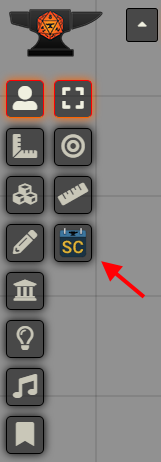
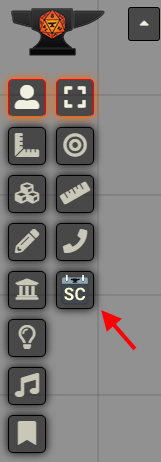
Toned down the coloring of the Token Control button. Fixed a bug where the display options time format previews were no longer updating to reflect changes. Fixed a bug where doing a quick setup with notes would result in duplicate notes being shown. Removed the setting of the version in the manifest

diff --git a/src/classes/configuration/predefined-calendar.test.ts b/src/classes/configuration/predefined-calendar.test.ts
@@ -36,13 +36,11 @@ describe('Predefined Calendar Tests', () => {
         jest.spyOn(NManager, 'addNoteStub').mockImplementation(() => {});
         fetchMock.mockOnce(`{"calendar":{"currentDate":{"year":2022,"month":2,"day":28,"seconds":0},"general":{"gameWorldTimeIntegration":"mixed","showClock":true,"noteDefaultVisibility":false,"postNoteRemindersOnFoundryLoad":true,"pf2eSync":true,"dateFormat":{"date":"MMMM DD, YYYY","time":"HH:mm:ss","monthYear":"MMMM YAYYYYYZ"}},"leapYear":{"rule":"gregorian","customMod":0},"months":[{"name":"January","abbreviation":"Jan","numericRepresentation":1,"numericRepresentationOffset":0,"numberOfDays":31,"numberOfLeapYearDays":31,"intercalary":false,"intercalaryInclude":false,"startingWeekday":null},{"name":"February","abbreviation":"Feb","numericRepresentation":2,"numericRepresentationOffset":0,"numberOfDays":28,"numberOfLeapYearDays":29,"intercalary":false,"intercalaryInclude":false,"startingWeekday":null},{"name":"March","abbreviation":"Mar","numericRepresentation":3,"numericRepresentationOffset":0,"numberOfDays":31,"numberOfLeapYearDays":31,"intercalary":false,"intercalaryInclude":false,"startingWeekday":null},{"name":"April","abbreviation":"Apr","numericRepresentation":4,"numericRepresentationOffset":0,"numberOfDays":30,"numberOfLeapYearDays":30,"intercalary":false,"intercalaryInclude":false,"startingWeekday":null},{"name":"May","abbreviation":"May","numericRepresentation":5,"numericRepresentationOffset":0,"numberOfDays":31,"numberOfLeapYearDays":31,"intercalary":false,"intercalaryInclude":false,"startingWeekday":null},{"name":"June","abbreviation":"Jun","numericRepresentation":6,"numericRepresentationOffset":0,"numberOfDays":30,"numberOfLeapYearDays":30,"intercalary":false,"intercalaryInclude":false,"startingWeekday":null},{"name":"July","abbreviation":"Jul","numericRepresentation":7,"numericRepresentationOffset":0,"numberOfDays":31,"numberOfLeapYearDays":31,"intercalary":false,"intercalaryInclude":false,"startingWeekday":null},{"name":"August","abbreviation":"Aug","numericRepresentation":8,"numericRepresentationOffset":0,"numberOfDays":31,"numberOfLeapYearDays":31,"intercalary":false,"intercalaryInclude":false,"startingWeekday":null},{"name":"September","abbreviation":"Sep","numericRepresentation":9,"numericRepresentationOffset":0,"numberOfDays":30,"numberOfLeapYearDays":30,"intercalary":false,"intercalaryInclude":false,"startingWeekday":null},{"name":"October","abbreviation":"Oct","numericRepresentation":10,"numericRepresentationOffset":0,"numberOfDays":31,"numberOfLeapYearDays":31,"intercalary":false,"intercalaryInclude":false,"startingWeekday":null},{"name":"November","abbreviation":"Nov","numericRepresentation":11,"numericRepresentationOffset":0,"numberOfDays":30,"numberOfLeapYearDays":30,"intercalary":false,"intercalaryInclude":false,"startingWeekday":null},{"name":"December","abbreviation":"Dec","numericRepresentation":12,"numericRepresentationOffset":0,"numberOfDays":31,"numberOfLeapYearDays":31,"intercalary":false,"intercalaryInclude":false,"startingWeekday":null}],"moons":[{"name":"Moon","cycleLength":29.53059,"firstNewMoon":{"yearReset":"none","yearX":0,"year":2000,"month":1,"day":5},"phases":[{"name":"New Moon","length":1,"icon":"new","singleDay":true},{"name":"Waxing Crescent","length":6.38265,"icon":"waxing-crescent","singleDay":false},{"name":"First Quarter","length":1,"icon":"first-quarter","singleDay":true},{"name":"Waxing Gibbous","length":6.38265,"icon":"waxing-gibbous","singleDay":false},{"name":"Full Moon","length":1,"icon":"full","singleDay":true},{"name":"Waning Gibbous","length":6.38265,"icon":"waning-gibbous","singleDay":false},{"name":"Last Quarter","length":1,"icon":"last-quarter","singleDay":true},{"name":"Waning Crescent","length":6.38265,"icon":"waning-crescent","singleDay":false}],"color":"#ffffff","cycleDayAdjust":0.5}],"noteCategories":[{"name":"Holiday","textColor":"#FFFFFF","color":"#148e94"}],"seasons":[{"name":"Spring","startingMonth":2,"startingDay":19,"color":"#46b946","icon":"spring","sunriseTime":21600,"sunsetTime":64800},{"name":"Summer","startingMonth":5,"startingDay":19,"color":"#e0c40b","icon":"summer","sunriseTime":21600,"sunsetTime":64800},{"name":"Fall","startingMonth":8,"startingDay":21,"color":"#ff8e47","icon":"fall","sunriseTime":21600,"sunsetTime":64800},{"name":"Winter","startingMonth":11,"startingDay":20,"color":"#479dff","icon":"winter","sunriseTime":21600,"sunsetTime":64800}],"time":{"hoursInDay":24,"minutesInHour":60,"secondsInMinute":60,"gameTimeRatio":1,"unifyGameAndClockPause":false,"updateFrequency":1},"weekdays":[{"abbreviation":"Su","name":"Sunday","numericRepresentation":1},{"abbreviation":"Mo","name":"Monday","numericRepresentation":2},{"abbreviation":"Tu","name":"Tuesday","numericRepresentation":3},{"abbreviation":"We","name":"Wednesday","numericRepresentation":4},{"abbreviation":"Th","name":"Thursday","numericRepresentation":5},{"abbreviation":"Fr","name":"Friday","numericRepresentation":6},{"abbreviation":"Sa","name":"Saturday","numericRepresentation":7}],"year":{"numericRepresentation":2022,"prefix":"","postfix":"","showWeekdayHeadings":true,"firstWeekday":4,"yearZero":1970,"yearNames":[],"yearNamingRule":"default","yearNamesStart":0}}, "notes":[{"flags":{"foundryvtt-simple-calendar":{"noteData":{}}}}]}`);
         expect(await PredefinedCalendar.setToPredefined(tCal, PredefinedCalendars.Gregorian)).toBe(true);
-        expect(NManager.addNoteStub).toHaveBeenCalledTimes(1);
 
         //@ts-ignore
         game.user.id = 'kqerkweklsfd';
         fetchMock.mockOnce(`{"calendar":{"currentDate":{"year":2022,"month":2,"day":28,"seconds":0},"general":{"gameWorldTimeIntegration":"mixed","showClock":true,"noteDefaultVisibility":false,"postNoteRemindersOnFoundryLoad":true,"pf2eSync":true,"dateFormat":{"date":"MMMM DD, YYYY","time":"HH:mm:ss","monthYear":"MMMM YAYYYYYZ"}},"leapYear":{"rule":"gregorian","customMod":0},"months":[{"name":"January","abbreviation":"Jan","numericRepresentation":1,"numericRepresentationOffset":0,"numberOfDays":31,"numberOfLeapYearDays":31,"intercalary":false,"intercalaryInclude":false,"startingWeekday":null},{"name":"February","abbreviation":"Feb","numericRepresentation":2,"numericRepresentationOffset":0,"numberOfDays":28,"numberOfLeapYearDays":29,"intercalary":false,"intercalaryInclude":false,"startingWeekday":null},{"name":"March","abbreviation":"Mar","numericRepresentation":3,"numericRepresentationOffset":0,"numberOfDays":31,"numberOfLeapYearDays":31,"intercalary":false,"intercalaryInclude":false,"startingWeekday":null},{"name":"April","abbreviation":"Apr","numericRepresentation":4,"numericRepresentationOffset":0,"numberOfDays":30,"numberOfLeapYearDays":30,"intercalary":false,"intercalaryInclude":false,"startingWeekday":null},{"name":"May","abbreviation":"May","numericRepresentation":5,"numericRepresentationOffset":0,"numberOfDays":31,"numberOfLeapYearDays":31,"intercalary":false,"intercalaryInclude":false,"startingWeekday":null},{"name":"June","abbreviation":"Jun","numericRepresentation":6,"numericRepresentationOffset":0,"numberOfDays":30,"numberOfLeapYearDays":30,"intercalary":false,"intercalaryInclude":false,"startingWeekday":null},{"name":"July","abbreviation":"Jul","numericRepresentation":7,"numericRepresentationOffset":0,"numberOfDays":31,"numberOfLeapYearDays":31,"intercalary":false,"intercalaryInclude":false,"startingWeekday":null},{"name":"August","abbreviation":"Aug","numericRepresentation":8,"numericRepresentationOffset":0,"numberOfDays":31,"numberOfLeapYearDays":31,"intercalary":false,"intercalaryInclude":false,"startingWeekday":null},{"name":"September","abbreviation":"Sep","numericRepresentation":9,"numericRepresentationOffset":0,"numberOfDays":30,"numberOfLeapYearDays":30,"intercalary":false,"intercalaryInclude":false,"startingWeekday":null},{"name":"October","abbreviation":"Oct","numericRepresentation":10,"numericRepresentationOffset":0,"numberOfDays":31,"numberOfLeapYearDays":31,"intercalary":false,"intercalaryInclude":false,"startingWeekday":null},{"name":"November","abbreviation":"Nov","numericRepresentation":11,"numericRepresentationOffset":0,"numberOfDays":30,"numberOfLeapYearDays":30,"intercalary":false,"intercalaryInclude":false,"startingWeekday":null},{"name":"December","abbreviation":"Dec","numericRepresentation":12,"numericRepresentationOffset":0,"numberOfDays":31,"numberOfLeapYearDays":31,"intercalary":false,"intercalaryInclude":false,"startingWeekday":null}],"moons":[{"name":"Moon","cycleLength":29.53059,"firstNewMoon":{"yearReset":"none","yearX":0,"year":2000,"month":1,"day":5},"phases":[{"name":"New Moon","length":1,"icon":"new","singleDay":true},{"name":"Waxing Crescent","length":6.38265,"icon":"waxing-crescent","singleDay":false},{"name":"First Quarter","length":1,"icon":"first-quarter","singleDay":true},{"name":"Waxing Gibbous","length":6.38265,"icon":"waxing-gibbous","singleDay":false},{"name":"Full Moon","length":1,"icon":"full","singleDay":true},{"name":"Waning Gibbous","length":6.38265,"icon":"waning-gibbous","singleDay":false},{"name":"Last Quarter","length":1,"icon":"last-quarter","singleDay":true},{"name":"Waning Crescent","length":6.38265,"icon":"waning-crescent","singleDay":false}],"color":"#ffffff","cycleDayAdjust":0.5}],"noteCategories":[{"name":"Holiday","textColor":"#FFFFFF","color":"#148e94"}],"seasons":[{"name":"Spring","startingMonth":2,"startingDay":19,"color":"#46b946","icon":"spring","sunriseTime":21600,"sunsetTime":64800},{"name":"Summer","startingMonth":5,"startingDay":19,"color":"#e0c40b","icon":"summer","sunriseTime":21600,"sunsetTime":64800},{"name":"Fall","startingMonth":8,"startingDay":21,"color":"#ff8e47","icon":"fall","sunriseTime":21600,"sunsetTime":64800},{"name":"Winter","startingMonth":11,"startingDay":20,"color":"#479dff","icon":"winter","sunriseTime":21600,"sunsetTime":64800}],"time":{"hoursInDay":24,"minutesInHour":60,"secondsInMinute":60,"gameTimeRatio":1,"unifyGameAndClockPause":false,"updateFrequency":1},"weekdays":[{"abbreviation":"Su","name":"Sunday","numericRepresentation":1},{"abbreviation":"Mo","name":"Monday","numericRepresentation":2},{"abbreviation":"Tu","name":"Tuesday","numericRepresentation":3},{"abbreviation":"We","name":"Wednesday","numericRepresentation":4},{"abbreviation":"Th","name":"Thursday","numericRepresentation":5},{"abbreviation":"Fr","name":"Friday","numericRepresentation":6},{"abbreviation":"Sa","name":"Saturday","numericRepresentation":7}],"year":{"numericRepresentation":2022,"prefix":"","postfix":"","showWeekdayHeadings":true,"firstWeekday":4,"yearZero":1970,"yearNames":[],"yearNamingRule":"default","yearNamesStart":0}}, "notes":[{"flags":{"foundryvtt-simple-calendar":{"noteData":{}}}}]}`);
         expect(await PredefinedCalendar.setToPredefined(tCal, PredefinedCalendars.Gregorian)).toBe(true);
-        expect(NManager.addNoteStub).toHaveBeenCalledTimes(2);
 
     });
 });

diff --git a/src/classes/applications/configuration-app.ts b/src/classes/applications/configuration-app.ts
@@ -369,6 +369,7 @@ export default class ConfigurationApp extends FormApplication {
             //---------------------
             this.appWindow.querySelectorAll("input, select").forEach(e => {
                 e.addEventListener('change', this.inputChange.bind(this));
+                e.addEventListener('keyup', this.inputChange.bind(this));
             });
             //---------------------
             // Date Format Table open/close
@@ -826,15 +827,15 @@ export default class ConfigurationApp extends FormApplication {
             this.uiElementStates.timeFormatExample = FormatDateTime({year: currDate.year, month: currDate.month, day: currDate.day, hour: 13, minute: 36, seconds: 42}, (<Calendar>this.object).generalSettings.dateFormat.time, <Calendar>this.object);
             this.uiElementStates.monthYearFormatExample = FormatDateTime({year: currDate.year, month: currDate.month, day: currDate.day, hour: 13, minute: 36, seconds: 42}, (<Calendar>this.object).generalSettings.dateFormat.monthYear, <Calendar>this.object);
 
-            let df = this.appWindow.querySelector(`#scDateFormatsDate`)?.closest('.form-group')?.querySelector('.example');
+            let df = this.appWindow.querySelector(`#scDateFormatsDate`)?.closest('.form-group')?.querySelector('.fsc-example');
             if(df){
                 (<HTMLElement>df).innerHTML = `<strong>${GameSettings.Localize('FSC.Example')}</strong>: ${this.uiElementStates.dateFormatExample}`;
             }
-            df = this.appWindow.querySelector(`#scDateFormatsTime`)?.closest('.form-group')?.querySelector('.example');
+            df = this.appWindow.querySelector(`#scDateFormatsTime`)?.closest('.form-group')?.querySelector('.fsc-example');
             if(df){
                 (<HTMLElement>df).innerHTML = `<strong>${GameSettings.Localize('FSC.Example')}</strong>: ${this.uiElementStates.timeFormatExample}`;
             }
-            df = this.appWindow.querySelector(`#scDateFormatsMonthYear`)?.closest('.form-group')?.querySelector('.example');
+            df = this.appWindow.querySelector(`#scDateFormatsMonthYear`)?.closest('.form-group')?.querySelector('.fsc-example');
             if(df){
                 (<HTMLElement>df).innerHTML = `<strong>${GameSettings.Localize('FSC.Example')}</strong>: ${this.uiElementStates.monthYearFormatExample}`;
             }

diff --git a/src/classes/configuration/predefined-calendar.ts b/src/classes/configuration/predefined-calendar.ts
@@ -51,10 +51,7 @@ export default class PredefinedCalendar{
                     note.flags[ModuleName].noteData.fromPredefined = true;
                     note.folder = NManager.noteDirectory?.id;
                     note.permission = perms;
-                    const je = await JournalEntry.create(note, {keepId: false});
-                    if(je){
-                        NManager.addNoteStub(je, calendarId);
-                    }
+                    await JournalEntry.create(note, {keepId: false});
                 }
             }
             updated = true;

diff --git a/src/styles/scaffolding/menu-icon.scss b/src/styles/scaffolding/menu-icon.scss
@@ -8,5 +8,6 @@
     height:34px;
     width:28px;
     display: block;
+    filter: grayscale(.75) brightness(1.5)
   }
 }

diff --git a/CHANGELOG.md b/CHANGELOG.md
@@ -1,5 +1,28 @@
 # Change Log
 
+## v2.0.4 - Update Issue Fix and More Bugs Squished
+
+### Update Issue Fix
+
+Right now Foundry says that version 1.3.75 is newer than version 2.0.1 and won't update the module. I will explain why below.
+
+**TL;DR**: I made a mistake, the quick fix is to uninstall and reinstall Simple Calendar. There will be no data loss and the issue will be solved going forward.
+
+**Longer Version**: When I first release Simple Calendar I did a silly thing and put a "v" in front of the version that Foundry reads. Foundry uses this version to determine if an update is a newer version or not. 
+
+This version is also stored in the module's details so not something that can be fixed without updating the module.
+
+When Foundry compares a version that starts with a v to one that does not start with a v, the one that starts with a v is considered newer. As well the first portion of two versions that both start with a v, example 'v1' and 'v2', are considered to be the same. Until version 2 of Simple Calendar this didn't matter as it was always comparing 'v1' to 'v1'. FoundryVTT won't change how they check version so I need to make the change on my side.
+
+Unfortunately the easiest way to fix this is to uninstall the previous version of Simple Calendar and reinstall it. After doing this, it will update properly going forward. When uninstalling a module that modules' data is not removed so there is no data loss in doing this. That said if you are concerned about data loss please make a backup of your world(s) before doing this exercise.
+
+I apologize about this mistake and the extra work/confusion that may have come because of it.
+
+### Bug Fixes
+- Fixed a bug where after doing a quick setup with a predefined calendar with notes, the notes would be listed twice on days until the page was refreshed.
+- Fixed a bug where the Display Options Time Formats previews were no longer updating as changes were made to the format.
+- Toned down the Token Control button coloring, so it is not as vivid and distracting.
+
 ## v2.0.1 - Bug Fixing
 
 - Changes to the migration process from v1.x to v2 to account for updates from Simple Calendar versions previous to 1.3.x
